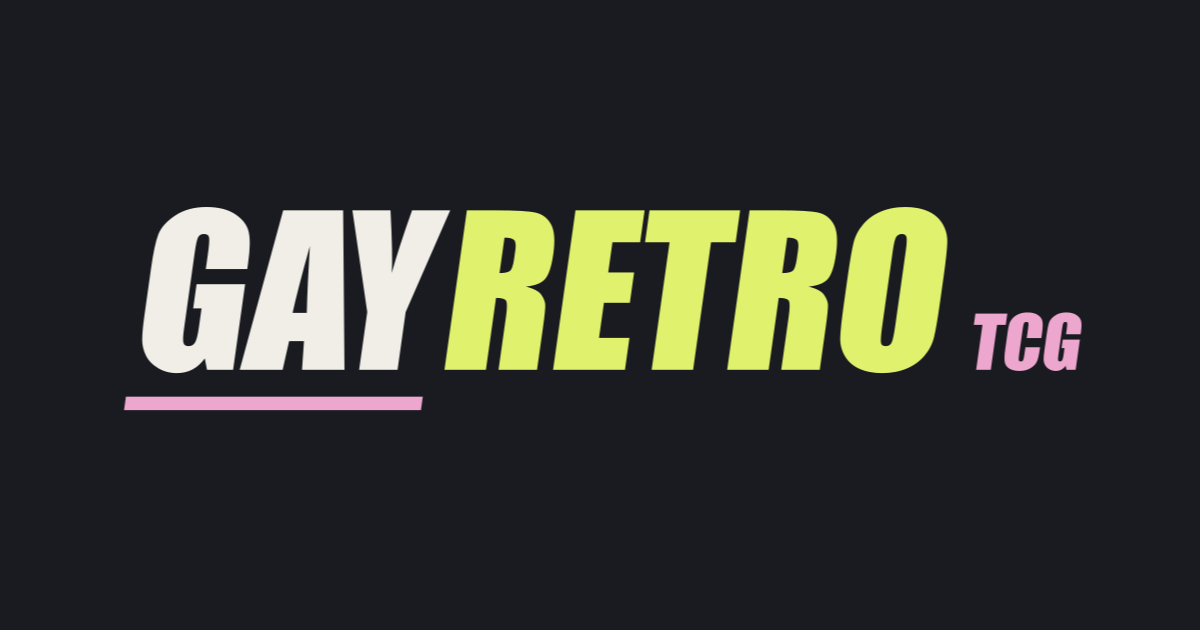
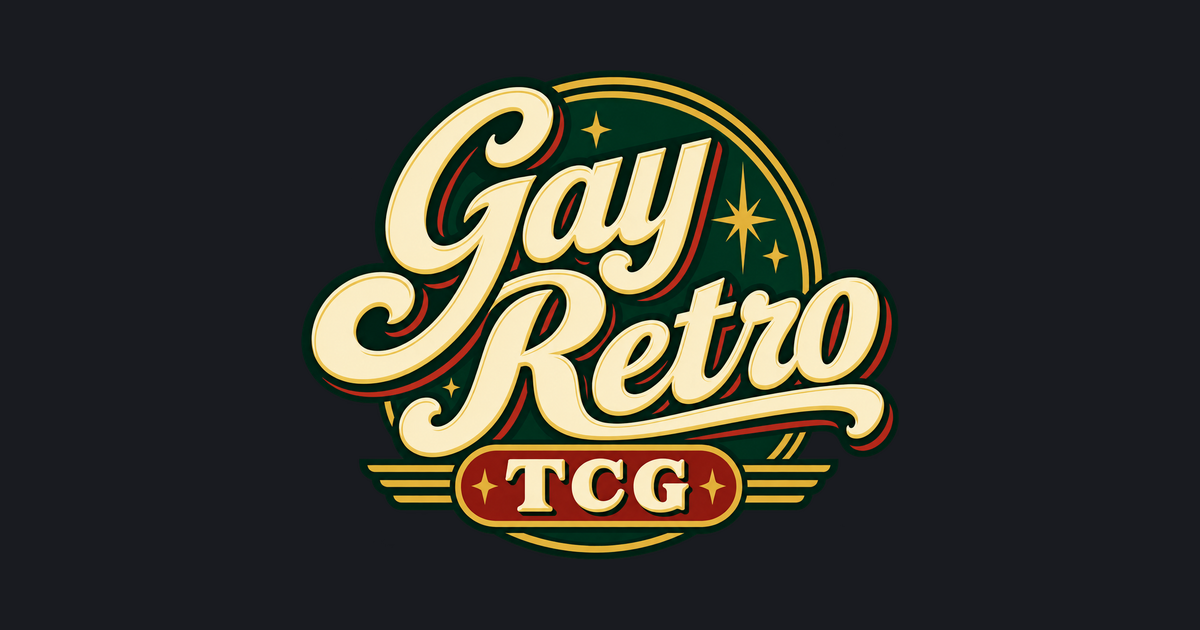
Use supplied retro emblem with a transparent background

diff --git a/app/styles/CartPage.module.css b/app/styles/CartPage.module.css
@@ -3,3 +3,5 @@
 .pageTitle,.emptyCartTitle{font:800 clamp(64px,8vw,100px)/.95 'Barlow Condensed',Impact,sans-serif;letter-spacing:-.025em;margin:0 0 42px;color:#f0eee7}
 .cartLayout{display:grid;grid-template-columns:minmax(0,1fr) 320px;gap:32px;align-items:start}.cartItemsList{display:grid;gap:14px}.cartItem{display:flex;align-items:center;justify-content:space-between;gap:24px;padding:22px;background:#262a30;border:1px solid #ffffff16;border-radius:8px}.itemDetails{display:flex;align-items:center;gap:20px;min-width:0}.itemImage{width:72px;height:100px;object-fit:cover;border-radius:5px;flex-shrink:0}.itemName{font:700 14px/1.6 'Manrope',sans-serif;margin:0 0 8px;overflow-wrap:anywhere}.itemPrice{font-size:11px;line-height:1.6;color:#bbbdb3;margin:4px 0}.itemActions{display:flex;flex-direction:column;align-items:flex-end;gap:10px;flex-shrink:0}.quantityDisplay{font-size:11px;color:#bbbdb3}.itemTotalPrice{color:#e0f16e;font-size:17px;font-weight:700;margin:0;font-variant-numeric:tabular-nums}.removeButton{border:0;background:none;color:#eda7ce;padding:8px 0;min-height:44px;font:600 11px 'Manrope',sans-serif;text-decoration:underline;text-underline-offset:4px;cursor:pointer}
 .cartSummary{background:#262a30;border:1px solid #ffffff16;border-radius:8px;padding:26px;position:sticky;top:104px}.summaryTitle{font:700 30px/1.1 'Barlow Condensed',Impact,sans-serif;margin:0 0 28px}.summaryRow{display:flex;justify-content:space-between;gap:20px;font-size:13px;color:#bbbdb3}.summaryRow p{margin:0 0 18px}.summaryTotalRow{border-top:1px solid #ffffff24;padding-top:20px;color:#f0eee7;font-weight:700;font-size:17px}.summaryValue,.summaryTotalValue{font-variant-numeric:tabular-nums}.checkoutButton,.goToShopButton{border:0;border-radius:4px;background:#e0f16e;color:#252b1b;min-height:52px;padding:16px 22px;font:800 12px 'Manrope',sans-serif;cursor:pointer;transition:background 160ms,transform 160ms}.checkoutButton{width:100%;margin-top:10px}.checkoutButton:disabled{opacity:.45;cursor:not-allowed}.minimumSpendMessage{background:#191b20;padding:14px;color:#eda7ce;font-size:12px;line-height:1.7;border-radius:4px;margin-bottom:18px}.emptyCartContainer{padding:65px 0 80px;border-bottom:1px solid #ffffff24;max-width:800px}.emptyCartTitle{margin-bottom:24px}.emptyCartText{font-size:14px;color:#bbbdb3;line-height:1.8;margin:0 0 30px}.loadingOverlay{position:fixed;inset:0;background:#191b20f2;z-index:9000;display:flex;flex-direction:column;align-items:center;justify-content:center;gap:24px;font:500 14px 'Manrope',sans-serif}.spinner{width:40px;height:40px;border:3px solid #ffffff20;border-top-color:#e0f16e;border-radius:50%;animation:spin .8s linear infinite}@keyframes spin{to{transform:rotate(360deg)}}.pageContainer :focus-visible{outline:3px solid #eda7ce;outline-offset:4px}@media(hover:hover){.checkoutButton:hover:not(:disabled),.goToShopButton:hover{background:#eda7ce}}@media(max-width:850px){.cartLayout{grid-template-columns:1fr}.cartSummary{position:static}.pageContainer{padding-top:44px}}@media(max-width:480px){.cartItem{padding:16px;gap:12px}.itemDetails{gap:12px}.itemImage{width:54px;height:75px}.itemName{font-size:12px}.itemTotalPrice{font-size:15px}.cartSummary{padding:22px}.emptyCartContainer{padding-top:38px}.pageTitle,.emptyCartTitle{font-size:64px}}@media(prefers-reduced-motion:reduce){.spinner{animation:none}.checkoutButton,.goToShopButton{transition:none}}
+
+.cartSummary{top:138px}

diff --git a/app/page.tsx b/app/page.tsx
@@ -29,6 +29,6 @@ export default async function HomePage() {
         <div className={styles.cardTitle}><h3>{card.name}</h3><span>£{(card.price / 100).toFixed(2)}</span></div>
       </Link>)}</div> : <div className={styles.empty}><div className={styles.emptyCard} aria-hidden="true"><span>GR</span><small>POKÉMON TCG</small></div><div><p className={styles.eyebrow}>THE COLLECTION</p><h3>{failed ? 'Unable to load cards' : 'No cards listed yet'}</h3><p>{failed ? 'We couldn’t load the collection. Try the shop again in a moment.' : 'No cards are listed right now. Check back for the next arrivals.'}</p><Link href="/shop" className={styles.textLink}>Browse the shop ↗</Link></div></div>}
     </section>
-    <footer className={styles.footer}><div className={styles.footerWord}>GAY RETRO<span>TCG</span></div><div className={styles.footerBottom}><p>© {new Date().getFullYear()} Gay Retro TCG</p><span>Pokémon singles</span><Link href="/admin/scan">Seller studio ↗</Link></div></footer>
+    <footer className={styles.footer}><div className={styles.footerWord}><img src="/gay-retro-logo.webp" alt="Gay Retro TCG" width="180" height="148" /></div><div className={styles.footerBottom}><p>© {new Date().getFullYear()} Gay Retro TCG</p><span>Pokémon singles</span><Link href="/admin/scan">Seller studio ↗</Link></div></footer>
   </main>;
 }

diff --git a/app/styles/HomePage.module.css b/app/styles/HomePage.module.css
@@ -14,3 +14,5 @@
 .cardImage{display:grid;place-items:center}.cardArtwork{display:block;position:relative;width:70%;aspect-ratio:63/88;border-radius:4.5%;overflow:hidden}.cardArtwork img{padding:0;object-fit:cover;border-radius:4.5%}
 
 .hero{display:block;max-width:1600px;min-height:0;padding:32px 4% 44px}@media(max-width:640px){.hero{padding:26px 0 32px}}
+
+.footerWord img{display:block;width:180px;height:auto}

diff --git a/src/components/Navbar.module.css b/src/components/Navbar.module.css
@@ -312,3 +312,5 @@
 @media(max-width:640px){.navbar{height:66px}.logoText{font-size:14px}}
 
 .cartQuantityBadge{background:#eda7ce;color:#191b20;box-shadow:none;text-shadow:none;font:800 10px 'Manrope',sans-serif}.cartTotal{font:700 10px 'Manrope',sans-serif;text-shadow:none}
+
+.navbar{height:112px}.mobileMenu{top:112px}@media(max-width:640px){.navbar{height:86px}.mobileMenu{top:86px}}

diff --git a/src/components/BrandLogo.module.css b/src/components/BrandLogo.module.css
@@ -1,1 +1,1 @@
-.logo{display:inline-flex;align-items:center}.logo img{display:block;width:190px;height:auto}@media(max-width:640px){.logo img{width:155px}}
+.logo{display:inline-flex;align-items:center}.logo img{display:block;width:112px;height:auto;max-height:94px;object-fit:contain}@media(max-width:640px){.logo img{width:86px;max-height:72px}}

diff --git a/src/components/BrandLogo.tsx b/src/components/BrandLogo.tsx
@@ -2,6 +2,6 @@ import styles from './BrandLogo.module.css';
 
 export default function BrandLogo() {
   return <span className={styles.logo} aria-hidden="true">
-    <img src="/brand-wordmark.svg" width="520" height="126" alt="" />
+    <img src="/gay-retro-logo.webp" width="640" height="524" alt="" />
   </span>;
 }

diff --git a/app/layout.tsx b/app/layout.tsx
@@ -12,7 +12,7 @@ export const metadata = {
   manifest: '/site.webmanifest',
   appleWebApp: { capable: true, title: 'Gay Retro' },
   icons: {
-    icon: "/brand-mark.svg",
+    icon: "/favicon.png",
     apple: "/apple-touch-icon.png",
   },
   openGraph: {
